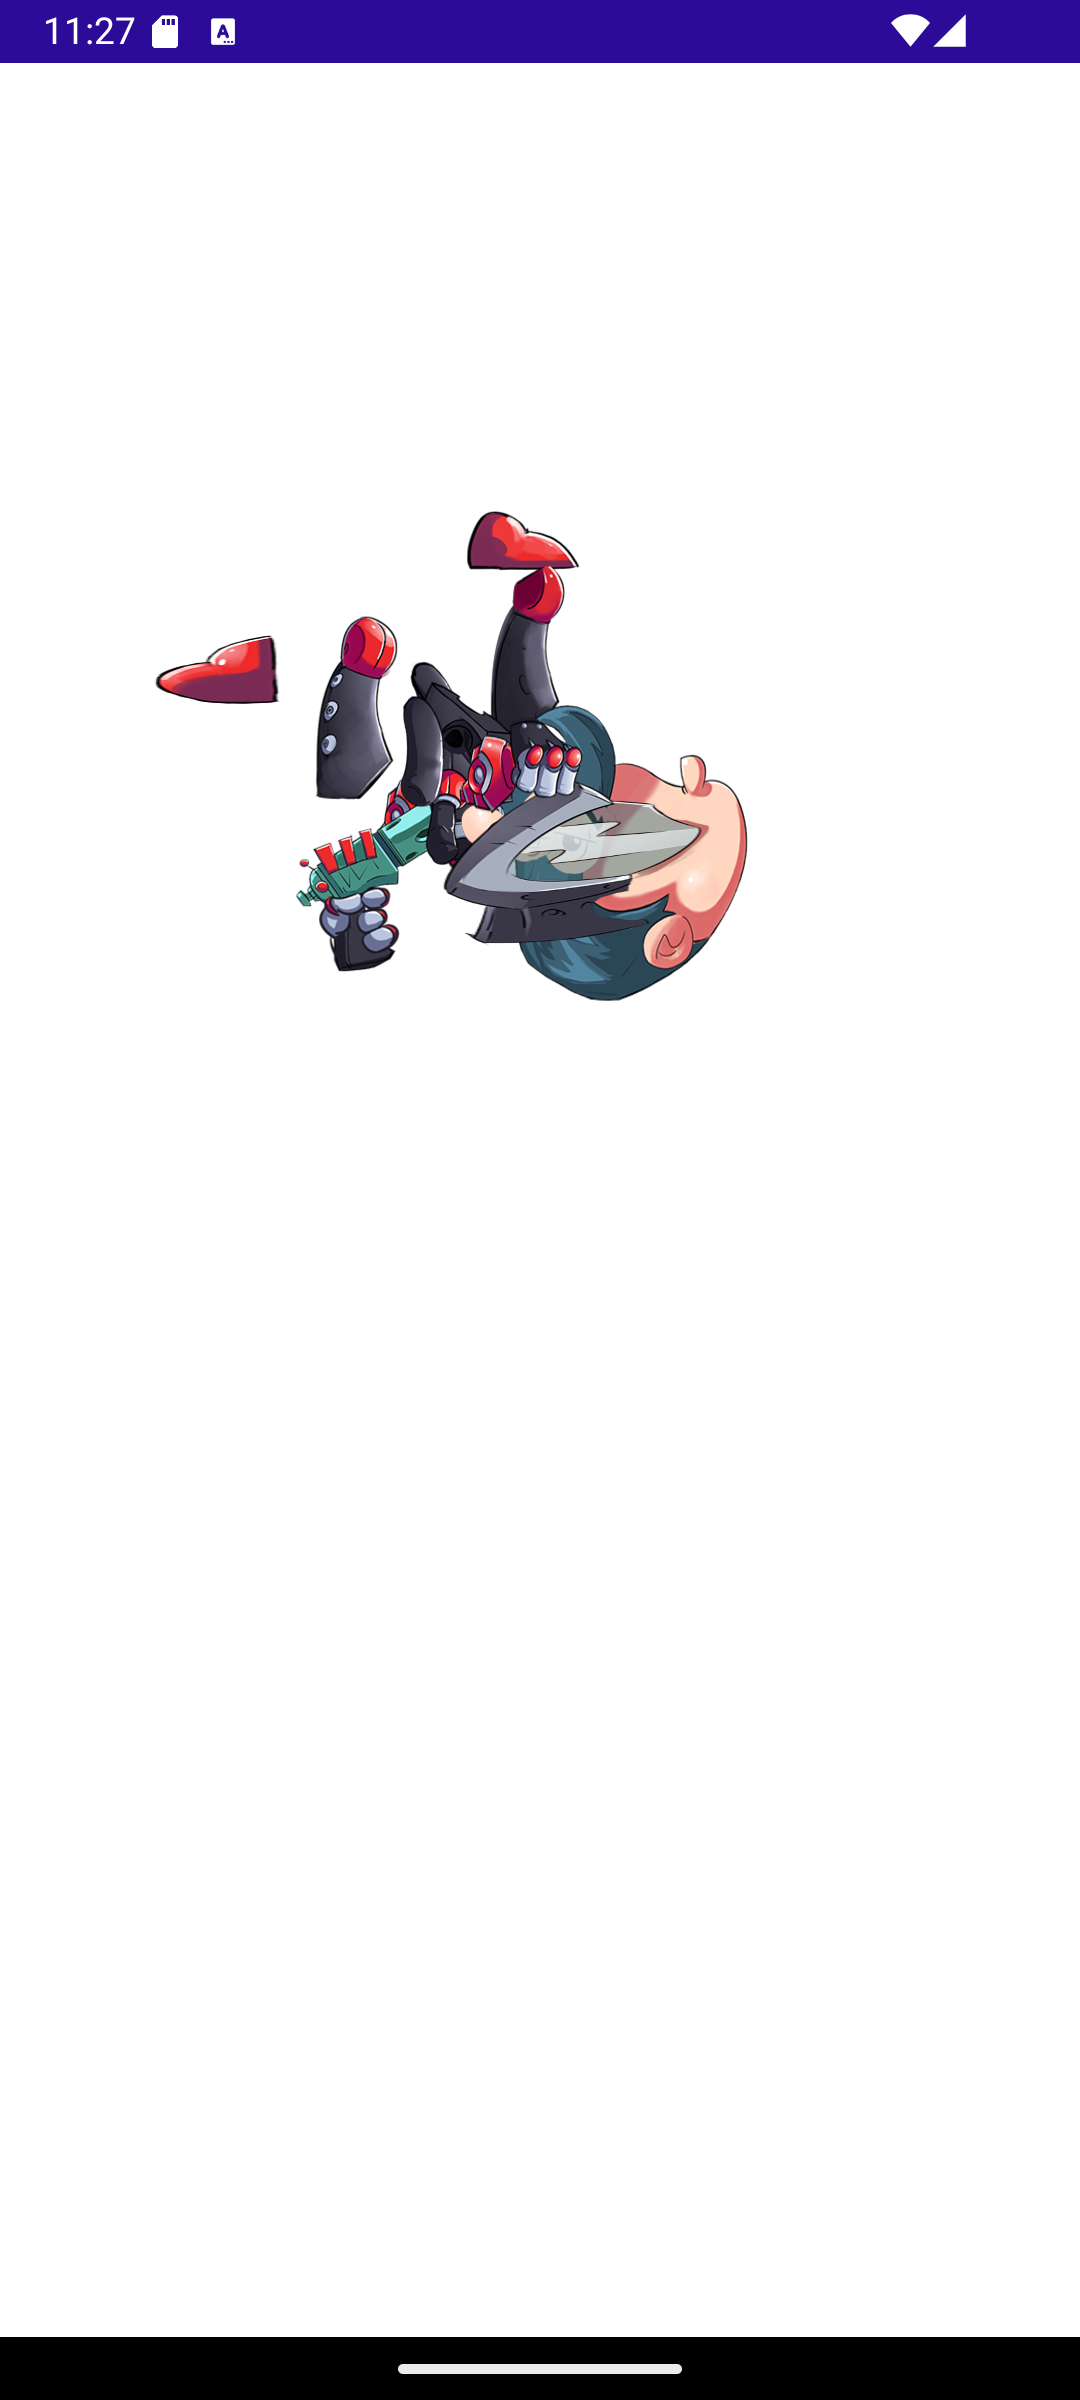
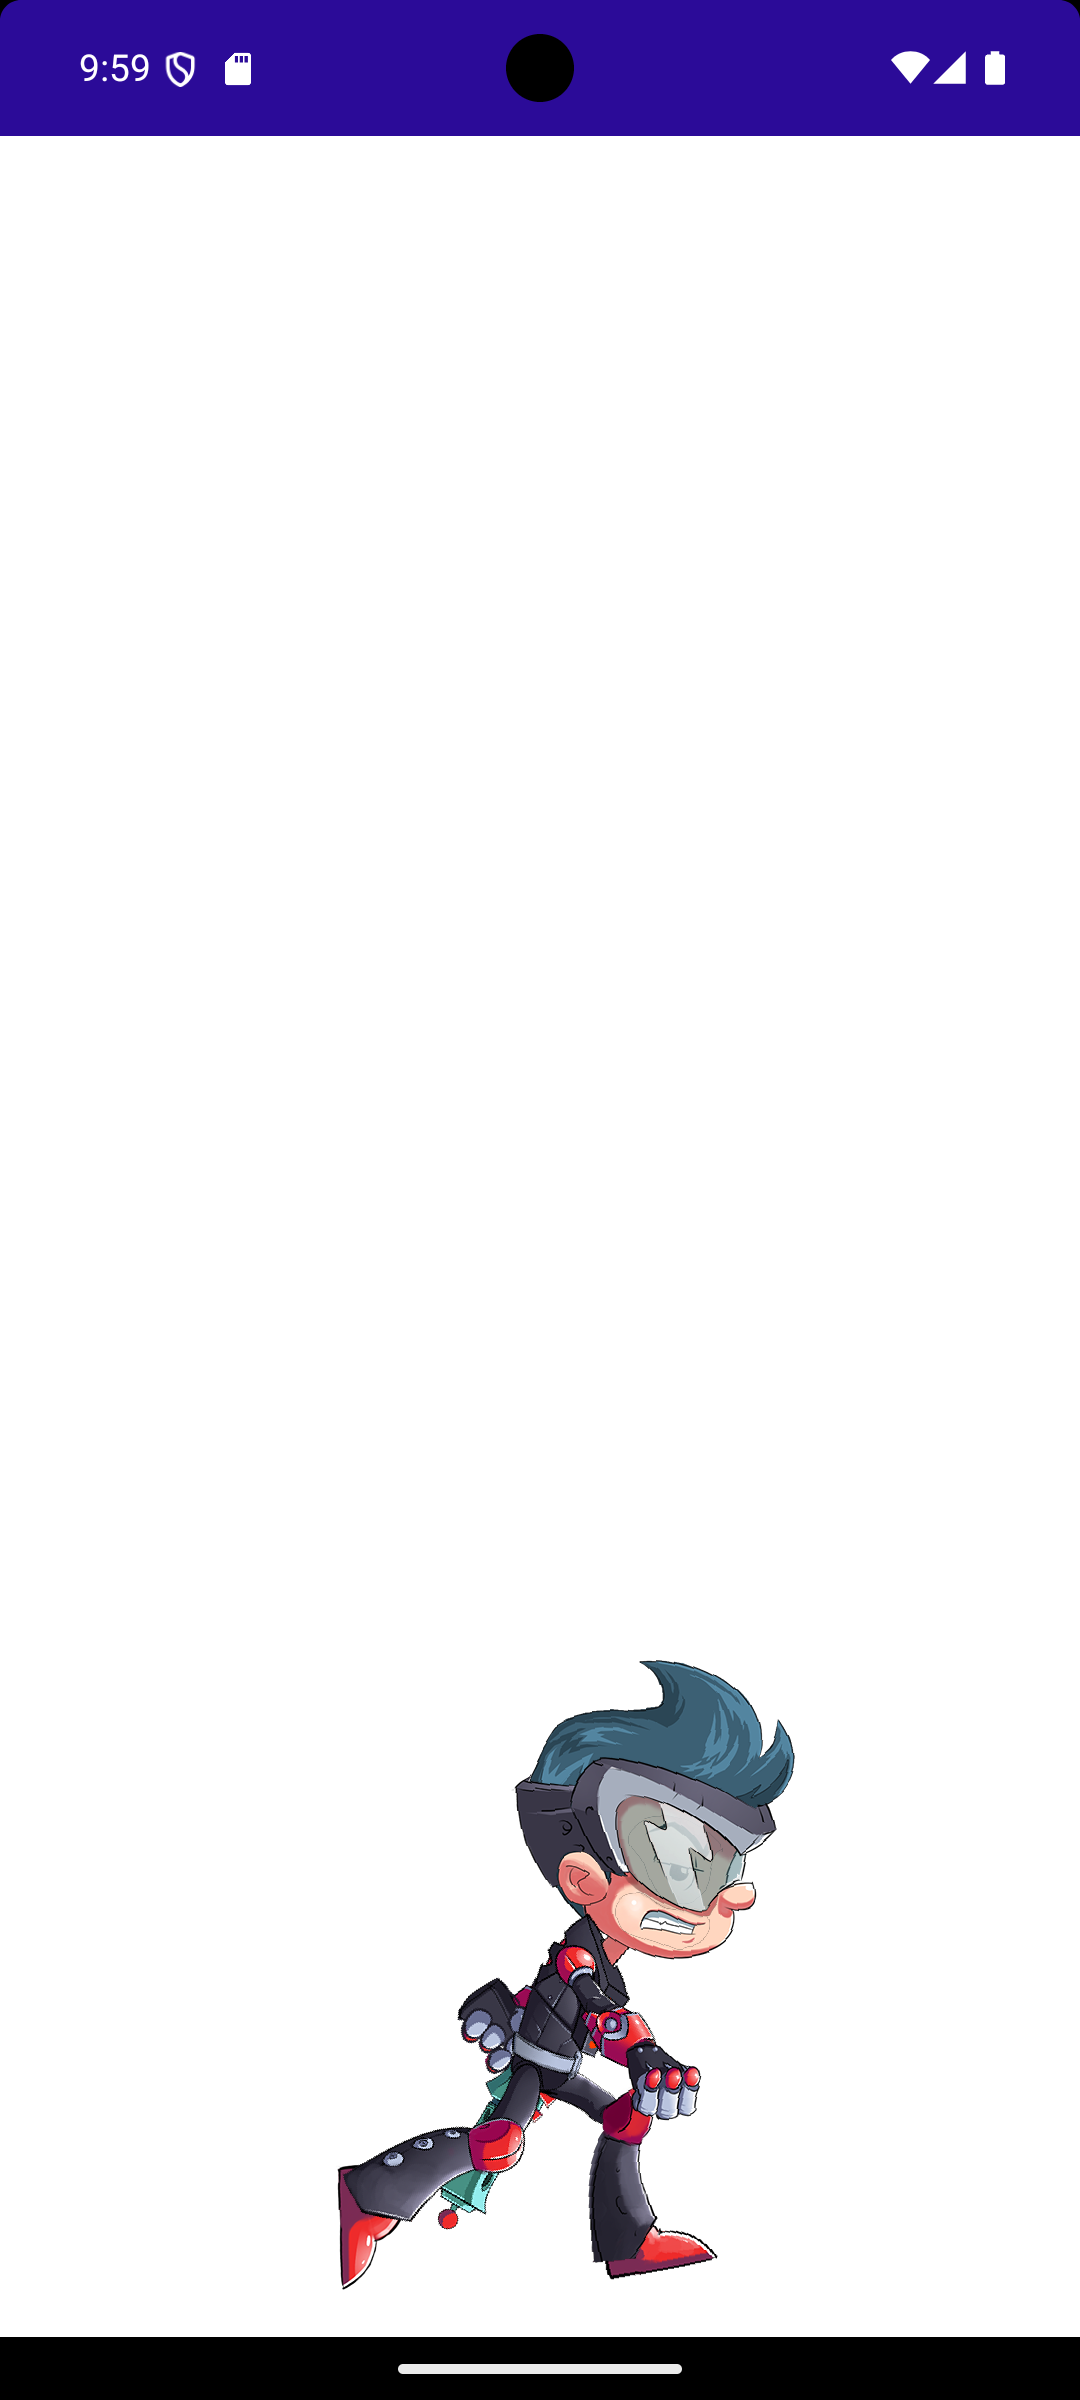
fixed the engine algorithm

Changed region(s): [[0.1528, 0.1875, 0.7028, 0.4375], [0.3056, 0.6875, 0.7333, 0.9688], [0.0, 0.0, 1.0, 0.0625]]

diff --git a/Spine-skiasharp/Engine/SpineSkiaSharpRenderer.cs b/Spine-skiasharp/Engine/SpineSkiaSharpRenderer.cs
@@ -1,100 +1,116 @@
 using Spine;
 using SkiaSharp;
+using BlendMode = Spine.BlendMode;
 
 namespace Spine_skiasharp.Engine
 {
     public class SpineSkiaSharpRenderer
     {
-        private readonly Atlas atlas;
-        private readonly MauiAssetTextureLoader textureLoader;
+        private float[] vertices = new float[1024];
 
         public SpineSkiaSharpRenderer(Atlas atlas, MauiAssetTextureLoader textureLoader)
         {
-            this.textureLoader = textureLoader;
         }
 
         public void DrawSkeleton(SKCanvas canvas, Skeleton skeleton)
         {
+            if (skeleton == null) return;
+
             foreach (Slot slot in skeleton.DrawOrder)
             {
                 Attachment attachment = slot.Attachment;
-                if (attachment is RegionAttachment regionAttachment)
+                if (attachment == null) continue;
+
+                SKBitmap bitmap = null;
+                float[] uvs = null;
+                int[] triangles = null;
+                int verticesCount = 0;
+                float[] worldVertices = null;
+
+                if (attachment is RegionAttachment region)
                 {
-                    DrawRegionAttachment(canvas, regionAttachment, slot);
+                    var atlasRegion = region.Region as AtlasRegion;
+                    if (atlasRegion?.page?.rendererObject is SKBitmap b)
+                        bitmap = b;
+
+                    if (bitmap == null) continue;
+
+                    verticesCount = 4;
+                    if (vertices.Length < 8) Array.Resize(ref vertices, 8);
+                    region.ComputeWorldVertices(slot, vertices, 0, 2);
+                    worldVertices = vertices;
+
+                    uvs = region.UVs;
+                    triangles = new int[] { 0, 1, 2, 2, 3, 0 };
                 }
-                else if (attachment is MeshAttachment meshAttachment)
+                else if (attachment is MeshAttachment mesh)
                 {
-                    DrawMeshAttachment(canvas, meshAttachment, slot);
+                    var atlasRegion = mesh.Region as AtlasRegion;
+                    if (atlasRegion?.page?.rendererObject is SKBitmap b)
+                        bitmap = b;
+
+                    if (bitmap == null) continue;
+
+                    verticesCount = mesh.WorldVerticesLength / 2;
+                    if (vertices.Length < mesh.WorldVerticesLength) Array.Resize(ref vertices, mesh.WorldVerticesLength);
+                    mesh.ComputeWorldVertices(slot, 0, mesh.WorldVerticesLength, vertices, 0, 2);
+                    worldVertices = vertices;
+
+                    uvs = mesh.UVs;
+                    triangles = mesh.Triangles;
+                }
+                else
+                {
+                    continue;
+                }
+
+                if (bitmap != null)
+                {
+                    SKBlendMode blendMode = SKBlendMode.SrcOver;
+                    switch (slot.Data.BlendMode)
+                    {
+                        case BlendMode.Additive: blendMode = SKBlendMode.Plus; break;
+                        case BlendMode.Multiply: blendMode = SKBlendMode.Multiply; break;
+                        case BlendMode.Screen: blendMode = SKBlendMode.Screen; break;
+                        default: blendMode = SKBlendMode.SrcOver; break;
+                    }
+
+                    using (var paint = new SKPaint())
+                    {
+                        paint.IsAntialias = true;
+                        paint.FilterQuality = SKFilterQuality.High;
+                        paint.BlendMode = blendMode;
+
+                        float a = skeleton.A * slot.A * 255;
+                        float r = skeleton.R * slot.R * 255;
+                        float g = skeleton.G * slot.G * 255;
+                        float b = skeleton.B * slot.B * 255;
+
+                        paint.ColorFilter = SKColorFilter.CreateBlendMode(
+                            new SKColor((byte)r, (byte)g, (byte)b, (byte)a), 
+                            SKBlendMode.Modulate);
+
+
+                        SKPoint[] skVertices = new SKPoint[verticesCount];
+                        SKPoint[] skTexs = new SKPoint[verticesCount];
+
+                        for (int i = 0; i < verticesCount; i++)
+                        {
+                            skVertices[i] = new SKPoint(worldVertices[i * 2], worldVertices[i * 2 + 1]);
+                            skTexs[i] = new SKPoint(uvs[i * 2] * bitmap.Width, uvs[i * 2 + 1] * bitmap.Height);
+                        }
+
+                        ushort[] indices = new ushort[triangles.Length];
+                        for (int i = 0; i < triangles.Length; i++) indices[i] = (ushort)triangles[i];
+
+                        using (var shader = SKShader.CreateBitmap(bitmap, SKShaderTileMode.Clamp, SKShaderTileMode.Clamp))
+                        {
+                            paint.Shader = shader;
+                            canvas.DrawVertices(SKVertexMode.Triangles, skVertices, skTexs, null, blendMode, indices, paint);
+                        }
+                    }
                 }
             }
-        }
-
-        private void DrawRegionAttachment(SKCanvas canvas, RegionAttachment regionAttachment, Slot slot)
-        {
-            Bone bone = slot.Bone;
-
-            // Calculate position and cumulated rotation
-            float worldX = bone.WorldX;
-            float worldY = bone.WorldY;
-            float rotation = bone.WorldRotationX + regionAttachment.Rotation;
-            float scaleX = bone.WorldScaleX * regionAttachment.ScaleX;
-            float scaleY = bone.WorldScaleY * regionAttachment.ScaleY;
-
-            // Convert rotation to rad
-            float radians = rotation * MathF.PI / 180f;
-            float cos = MathF.Cos(radians);
-            float sin = MathF.Sin(radians);
-
-            // Calculate world verticies
-            float offsetX = regionAttachment.X;
-            float offsetY = regionAttachment.Y;
-            float renderX = worldX + (offsetX * cos - offsetY * sin);
-            float renderY = worldY - (offsetX * sin - offsetY * cos); // Should inverse Y axis for Skiasharp
-
-            // Retrieve the texture from the texture loader
-            string textureName = "spineboy-ess.png";
-            var bitmap = textureLoader.GetTexture(textureName);
-            if (bitmap == null)
-            {
-                Console.WriteLine($"Texture missing for attachment: {regionAttachment.Name}");
-                return;
-            }
-
-            // Get the region attachment texture coordinates
-            float textureWidth = bitmap.Width;
-            float textureHeight = bitmap.Height;
-            var sourceRect = new SKRect(
-                regionAttachment.Region.u * textureWidth,
-                regionAttachment.Region.v * textureHeight,
-                regionAttachment.Region.u2 * textureWidth,
-                regionAttachment.Region.v2 * textureHeight
-            );
-
-            // Calculate the attachment width and height
-            float attachmentWidth = regionAttachment.Width * scaleX;
-            float attachmentHeight = regionAttachment.Height * scaleY;
-
-            // Define the destination rectangle
-            var destRect = new SKRect(
-                renderX - attachmentWidth / 2,
-                renderY - attachmentHeight / 2,
-                renderX + attachmentWidth / 2,
-                renderY + attachmentHeight / 2
-            );
-
-            // Render texture on SKiasharp canvas
-            using var paint = new SKPaint
-            {
-                IsAntialias = true,
-                FilterQuality = SKFilterQuality.High
-            };
-            canvas.DrawBitmap(bitmap, sourceRect, destRect, paint);
-        }
-
-
-        private void DrawMeshAttachment(SKCanvas canvas, MeshAttachment mesh, Slot slot)
-        {
-            // Todo
         }
     }
 }

diff --git a/Spine-skiasharp/MainPage.xaml.cs b/Spine-skiasharp/MainPage.xaml.cs
@@ -45,6 +45,7 @@ namespace Spine_skiasharp
                 var skeletonData = skeletonJson.ReadSkeletonData(new StreamReader(streamSkel));
 
                 skeleton = new Skeleton(skeletonData);
+                skeleton.ScaleY = -1; // Flip Y for Skia rendering convention
 
                 AnimationStateData stateData = new AnimationStateData(skeletonData);
                 stateData.DefaultMix = 0.1f;
@@ -79,8 +80,9 @@ namespace Spine_skiasharp
             animationState.Update(1 / 60f);
             animationState.Apply(skeleton);
             skeleton.UpdateWorldTransform(Skeleton.Physics.Update);
-            skeleton.X = 400;
-            skeleton.Y = 400;
+            skeleton.X = canvas.LocalClipBounds.Width / 2;
+            // Place the character at the bottom of the screen
+            skeleton.Y = canvas.LocalClipBounds.Height;
             renderer.DrawSkeleton(canvas, skeleton);
         }
 

diff --git a/README.md b/README.md
@@ -8,8 +8,6 @@ Spine-csharp is provided as is by Esoteric Software.
 https://fr.esotericsoftware.com/
 https://github.com/EsotericSoftware/spine-runtimes
 
-The Engine.SpineSkiaSharpRenderer need to be repair. Some help would be appreciated to find the right algorithm.
+The Engine.SpineSkiaSharpRenderer contains the magic.
 
 What we have : ![What we have](readme/result.png)
-
-What we should have : ![What we should have](readme/model.png)
